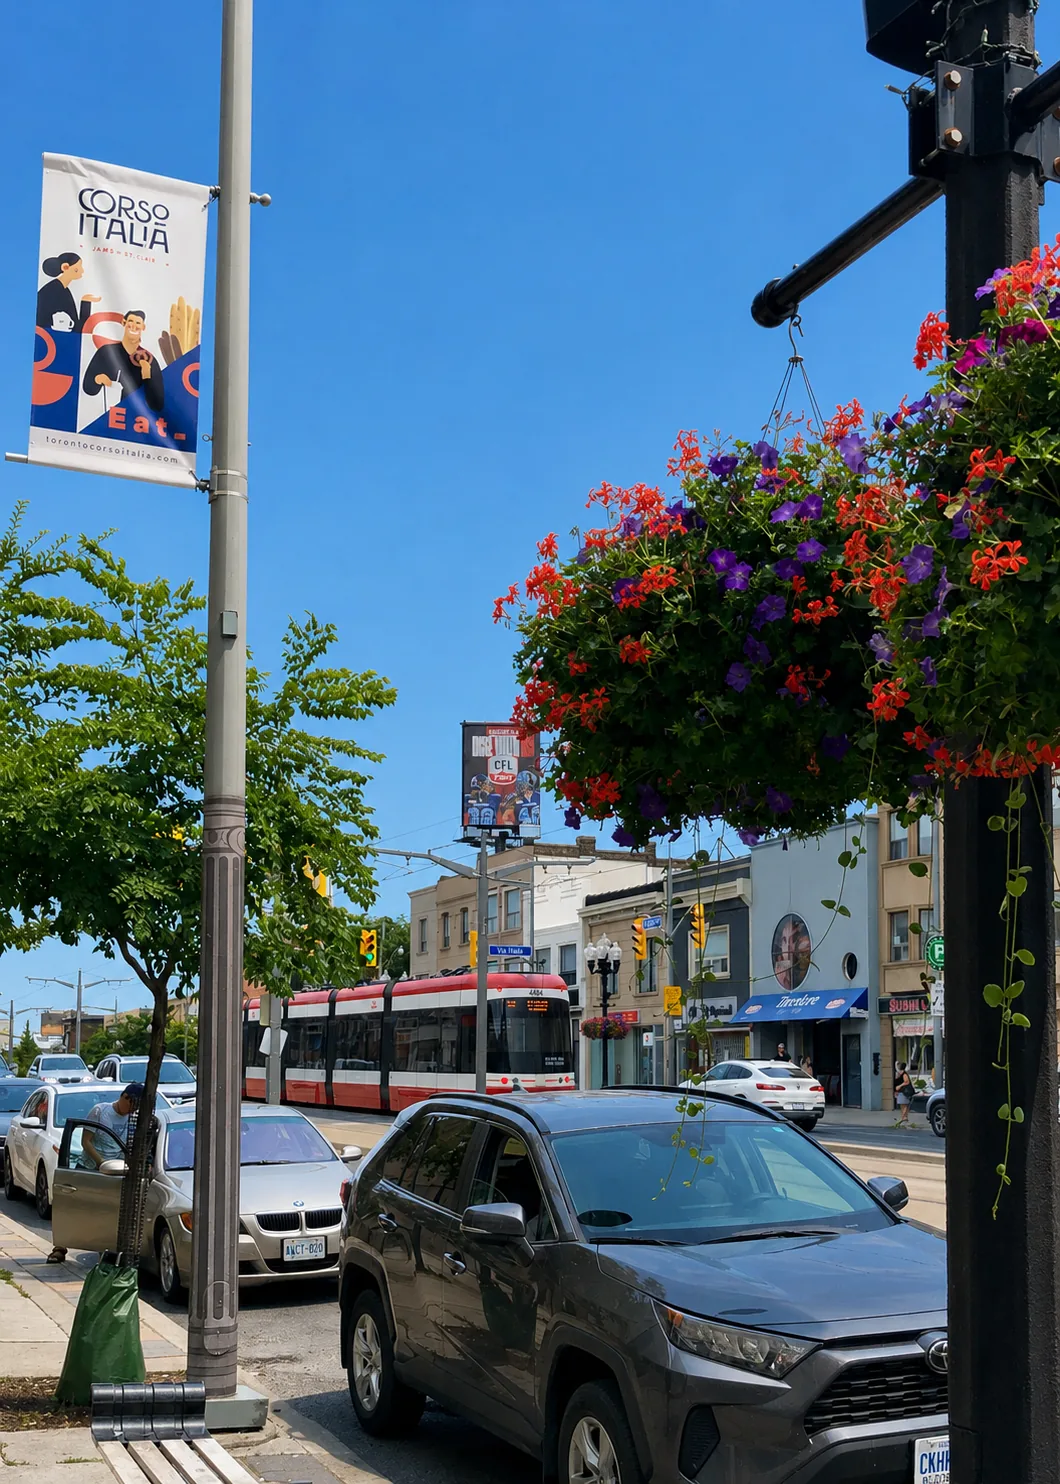
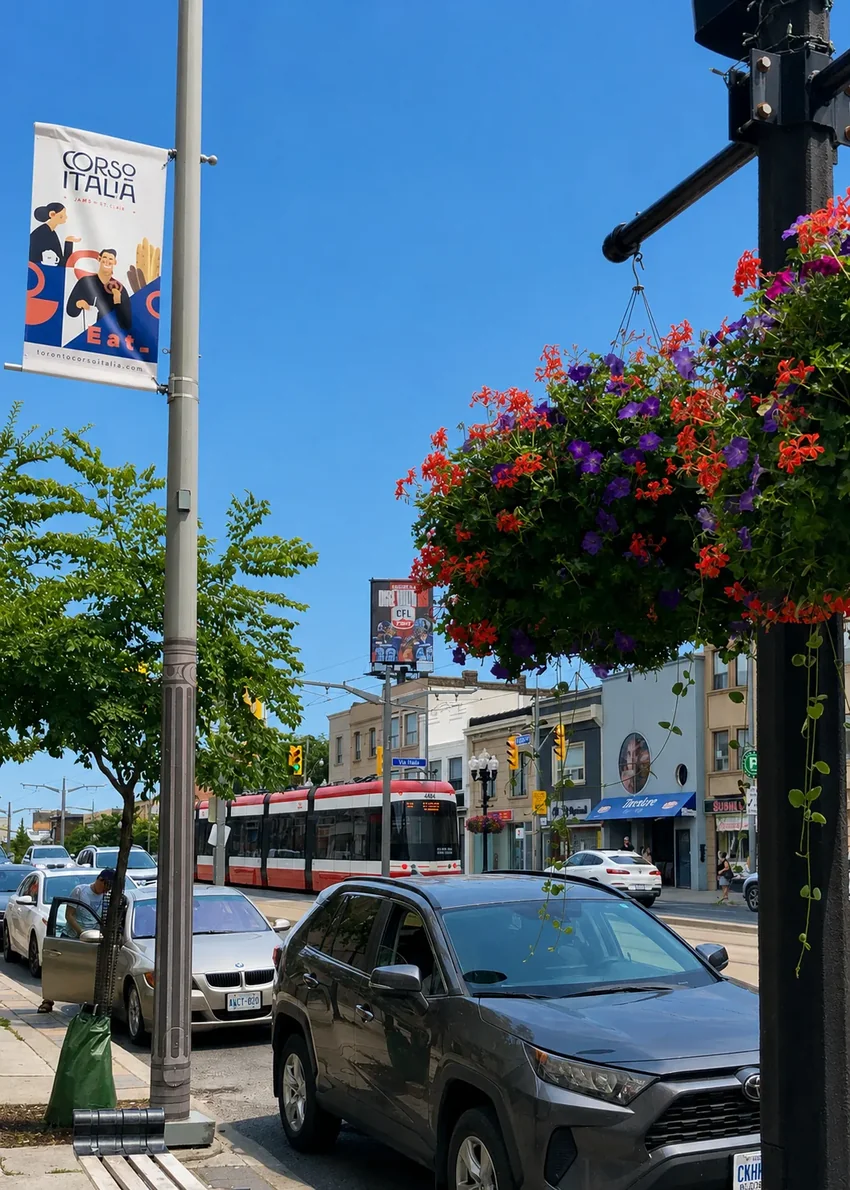
Compress gallery photos and cloud graphic to WebP
Convert the 6 storefront/interior gallery images and the decorative
cloud2 asset to appropriately-sized, high-quality WebP versions
(resized to actual display size with retina headroom) to cut page
weight without visible quality loss. Updates all references across
index.html and braces-supports.html, including meta/JSON-LD image tags.

Changed region(s): [[0.3365, 0.6218, 0.3671, 0.6529]]

diff --git a/index.html b/index.html
@@ -27,7 +27,7 @@
   <meta property="og:url"         content="https://www.stclairdrugmart.ca/" />
   <meta property="og:title"       content="St. Clair Drug Mart | Top-Rated Pharmacy in Toronto, Ontario" />
   <meta property="og:description" content="4.9-star rated neighbourhood pharmacy on St. Clair West, Toronto, Ontario — walk-ins welcome, online appointments, vaccines, free Rx delivery & pharmacist care for 28 common conditions." />
-  <meta property="og:image"       content="https://www.stclairdrugmart.ca/storefront_studio.jpeg" />
+  <meta property="og:image"       content="https://www.stclairdrugmart.ca/storefront_studio.webp" />
   <meta property="og:image:alt"   content="St. Clair Drug Mart Pharmacy storefront at 1203 St. Clair Ave W, Toronto" />
   <meta property="business:contact_data:street_address" content="1203 St. Clair Avenue West" />
   <meta property="business:contact_data:locality" content="Toronto" />
@@ -39,7 +39,7 @@
   <meta name="twitter:site"        content="@stclairdrugmart" />
   <meta name="twitter:title"       content="St. Clair Drug Mart | Top-Rated Pharmacy in Toronto, Ontario" />
   <meta name="twitter:description" content="4.9-star rated neighbourhood pharmacy on St. Clair West, Toronto, Ontario — walk-ins welcome, online appointments, vaccines, free Rx delivery & pharmacist care for 28 common conditions." />
-  <meta name="twitter:image"       content="https://www.stclairdrugmart.ca/storefront_studio.jpeg" />
+  <meta name="twitter:image"       content="https://www.stclairdrugmart.ca/storefront_studio.webp" />
   <script type="application/ld+json">
   {
     "@context": "https://schema.org",
@@ -50,7 +50,7 @@
     "slogan": "Your neighbourhood pharmacy on St. Clair West.",
     "url": "https://www.stclairdrugmart.ca/",
     "logo": "https://www.stclairdrugmart.ca/logo.png",
-    "image": "https://www.stclairdrugmart.ca/storefront_studio.jpeg",
+    "image": "https://www.stclairdrugmart.ca/storefront_studio.webp",
     "description": "Clinical pharmacy and walk-in pharmacy at 1203 St. Clair Avenue West, Toronto, ON — frequently searched as the best pharmacy in Toronto, Ontario by patients in the area. Walk-ins welcome — no appointment needed. Prescriptions, free delivery, vaccines, blister packs, medication reviews, pharmacist prescribing for 28 minor ailments, and free naloxone kits through the Ontario Naloxone Program.",
     "telephone": "[phone redacted]",
     "email": "[email redacted]",
@@ -2328,13 +2328,13 @@
 </head>
 <body>
 <div class="sky-bg" aria-hidden="true">
-  <img src="cloud2.png" class="sky-bg-cloud" data-dur="132" data-delay="-25" style="transform:translateX(-25.9vw)" alt="">
+  <img src="cloud2.webp" class="sky-bg-cloud" data-dur="132" data-delay="-25" style="transform:translateX(-25.9vw)" alt="">
   <img src="cloud.png"  class="sky-bg-cloud sky-bg-cloud--flip" data-dur="102" data-delay="-60" style="transform:translateX(45.9vw) scaleX(-1)" alt="">
-  <img src="cloud2.png" class="sky-bg-cloud sky-bg-cloud--flip" data-dur="122" data-delay="-85" style="transform:translateX(65.4vw) scaleX(-1)" alt="">
+  <img src="cloud2.webp" class="sky-bg-cloud sky-bg-cloud--flip" data-dur="122" data-delay="-85" style="transform:translateX(65.4vw) scaleX(-1)" alt="">
   <img src="cloud.png"  class="sky-bg-cloud" data-dur="96" data-delay="-12" style="transform:translateX(-37.5vw)" alt="">
-  <img src="cloud2.png" class="sky-bg-cloud sky-bg-cloud--flip" data-dur="116" data-delay="-40" style="transform:translateX(2.1vw) scaleX(-1)" alt="">
+  <img src="cloud2.webp" class="sky-bg-cloud sky-bg-cloud--flip" data-dur="116" data-delay="-40" style="transform:translateX(2.1vw) scaleX(-1)" alt="">
   <img src="cloud.png"  class="sky-bg-cloud" data-dur="128" data-delay="-18" style="transform:translateX(-34.7vw)" alt="">
-  <img src="cloud2.png" class="sky-bg-cloud" data-dur="110" data-delay="-72" style="transform:translateX(57.8vw)" alt="">
+  <img src="cloud2.webp" class="sky-bg-cloud" data-dur="110" data-delay="-72" style="transform:translateX(57.8vw)" alt="">
   <img src="cloud.png"  class="sky-bg-cloud sky-bg-cloud--flip" data-dur="94" data-delay="-95" style="transform:translateX(-58.1vw) scaleX(-1)" alt="">
 </div>
 
@@ -2343,12 +2343,12 @@
 <!-- ── Nav ──────────────────────────────────────────────── -->
 <nav class="nav" id="nav">
   <div class="nav__clouds" aria-hidden="true">
-    <img src="cloud2.png" class="nav__cloud" data-dur="175" data-delay="-29" style="transform:translateX(-30.6vw)" alt="">
+    <img src="cloud2.webp" class="nav__cloud" data-dur="175" data-delay="-29" style="transform:translateX(-30.6vw)" alt="">
     <img src="cloud.png"  class="nav__cloud nav__cloud--flip" data-dur="140" data-delay="-81" style="transform:translateX(44.7vw) scaleX(-1)" alt="">
-    <img src="cloud2.png" class="nav__cloud nav__cloud--flip" data-dur="165" data-delay="-126" style="transform:translateX(77.6vw) scaleX(-1)" alt="">
+    <img src="cloud2.webp" class="nav__cloud nav__cloud--flip" data-dur="165" data-delay="-126" style="transform:translateX(77.6vw) scaleX(-1)" alt="">
     <img src="cloud.png"  class="nav__cloud" data-dur="125" data-delay="-51" style="transform:translateX(13.8vw)" alt="">
     <img src="cloud.png"  class="nav__cloud nav__cloud--flip" data-dur="150" data-delay="-102" style="transform:translateX(-8vw) scaleX(-1)" alt="">
-    <img src="cloud2.png" class="nav__cloud" data-dur="130" data-delay="0" style="transform:translateX(-60vw)" alt="">
+    <img src="cloud2.webp" class="nav__cloud" data-dur="130" data-delay="0" style="transform:translateX(-60vw)" alt="">
   </div>
   <div class="nav__inner">
     <a href="#home" class="nav__brand">
@@ -2416,17 +2416,17 @@
 <!-- ── Hero ─────────────────────────────────────────────── -->
 <header class="hero" id="home">
   <div class="hero__clouds" aria-hidden="true">
-    <img src="cloud2.png" class="hero__cloud" data-dur="116" data-delay="-20" style="transform:translateX(-29vw)" alt="">
+    <img src="cloud2.webp" class="hero__cloud" data-dur="116" data-delay="-20" style="transform:translateX(-29vw)" alt="">
     <img src="cloud.png"  class="hero__cloud hero__cloud--flip" data-dur="85" data-delay="-55" style="transform:translateX(56.5vw) scaleX(-1)" alt="">
-    <img src="cloud2.png" class="hero__cloud hero__cloud--flip" data-dur="110" data-delay="-80" style="transform:translateX(70.9vw) scaleX(-1)" alt="">
+    <img src="cloud2.webp" class="hero__cloud hero__cloud--flip" data-dur="110" data-delay="-80" style="transform:translateX(70.9vw) scaleX(-1)" alt="">
     <img src="cloud.png"  class="hero__cloud" data-dur="77" data-delay="-35" style="transform:translateX(21.8vw)" alt="">
-    <img src="cloud2.png" class="hero__cloud" data-dur="132" data-delay="-110" style="transform:translateX(90vw)" alt="">
+    <img src="cloud2.webp" class="hero__cloud" data-dur="132" data-delay="-110" style="transform:translateX(90vw)" alt="">
     <img src="cloud.png"  class="hero__cloud hero__cloud--flip" data-dur="89" data-delay="-12" style="transform:translateX(-35.7vw) scaleX(-1)" alt="">
-    <img src="cloud2.png" class="hero__cloud hero__cloud--flip" data-dur="113" data-delay="-65" style="transform:translateX(43.5vw) scaleX(-1)" alt="">
+    <img src="cloud2.webp" class="hero__cloud hero__cloud--flip" data-dur="113" data-delay="-65" style="transform:translateX(43.5vw) scaleX(-1)" alt="">
     <img src="cloud.png"  class="hero__cloud" data-dur="81" data-delay="-48" style="transform:translateX(46.7vw)" alt="">
-    <img src="cloud2.png" class="hero__cloud" data-dur="122" data-delay="-120" style="transform:translateX(117.1vw)" alt="">
+    <img src="cloud2.webp" class="hero__cloud" data-dur="122" data-delay="-120" style="transform:translateX(117.1vw)" alt="">
     <img src="cloud.png"  class="hero__cloud hero__cloud--flip" data-dur="86" data-delay="-28" style="transform:translateX(-1.4vw) scaleX(-1)" alt="">
-    <img src="cloud2.png" class="hero__cloud hero__cloud--flip" data-dur="102" data-delay="-90" style="transform:translateX(98.8vw) scaleX(-1)" alt="">
+    <img src="cloud2.webp" class="hero__cloud hero__cloud--flip" data-dur="102" data-delay="-90" style="transform:translateX(98.8vw) scaleX(-1)" alt="">
     <img src="cloud.png"  class="hero__cloud" data-dur="79" data-delay="-70" style="transform:translateX(99.5vw)" alt="">
   </div>
   <img src="logo.png" alt="St. Clair Drug Mart Pharmacy logo" class="hero__logo" width="940" height="922" fetchpriority="high" />
@@ -2667,7 +2667,7 @@
 <section id="booking">
   <div class="section__inner">
     <img src="cloud.png" alt="" aria-hidden="true" class="booking__logo-cloud" loading="lazy" decoding="async" />
-    <img src="cloud2.png" alt="" aria-hidden="true" class="booking__logo-cloud--2" loading="lazy" decoding="async" />
+    <img src="cloud2.webp" alt="" aria-hidden="true" class="booking__logo-cloud--2" loading="lazy" decoding="async" />
     <img src="cloud.png" alt="" aria-hidden="true" class="booking__logo-cloud--3" loading="lazy" decoding="async" />
     <img src="logo.png" alt="St. Clair Drug Mart Pharmacy" class="booking__logo" loading="lazy" decoding="async" />
     <h2 class="section__title">Patient Portal</h2>
@@ -3866,24 +3866,24 @@
     <div class="gallery">
       <div class="gallery__row gallery__row--top">
         <div class="gallery__item">
-          <img src="storefront_studio.jpeg" alt="St. Clair Drug Mart Pharmacy exterior — 1203 St. Clair Ave W, Toronto" loading="eager" fetchpriority="low" decoding="async" />
+          <img src="storefront_studio.webp" alt="St. Clair Drug Mart Pharmacy exterior — 1203 St. Clair Ave W, Toronto" loading="eager" fetchpriority="low" decoding="async" />
         </div>
         <div class="gallery__item">
           <img src="neighbourhood.webp" alt="Corso Italia street on St. Clair Ave W with TTC streetcar and flower baskets" loading="eager" fetchpriority="low" decoding="async" />
         </div>
         <div class="gallery__item">
-          <img src="storefront_angle.jpeg" alt="St. Clair Drug Mart Pharmacy storefront on St. Clair Ave W, Toronto" loading="eager" fetchpriority="low" decoding="async" />
+          <img src="storefront_angle.webp" alt="St. Clair Drug Mart Pharmacy storefront on St. Clair Ave W, Toronto" loading="eager" fetchpriority="low" decoding="async" />
         </div>
       </div>
       <div class="gallery__row gallery__row--bottom">
         <div class="gallery__item">
-          <img src="interior_wide.jpg" alt="Inside St. Clair Drug Mart Pharmacy — pharmacy counter and full store" loading="eager" fetchpriority="low" decoding="async" />
+          <img src="interior_wide.webp" alt="Inside St. Clair Drug Mart Pharmacy — pharmacy counter and full store" loading="eager" fetchpriority="low" decoding="async" />
         </div>
         <div class="gallery__item">
           <img src="interior_shelves.webp" alt="Over-the-counter and health product shelves at St. Clair Drug Mart Pharmacy" loading="eager" fetchpriority="low" decoding="async" />
         </div>
         <div class="gallery__item">
-          <img src="interior_aisle.jpg" alt="Product aisle and counseling room inside St. Clair Drug Mart Pharmacy" loading="eager" fetchpriority="low" decoding="async" />
+          <img src="interior_aisle.webp" alt="Product aisle and counseling room inside St. Clair Drug Mart Pharmacy" loading="eager" fetchpriority="low" decoding="async" />
         </div>
       </div>
     </div>

diff --git a/braces-supports.html b/braces-supports.html
@@ -17,11 +17,11 @@
   <meta property="og:title" content="Braces, Supports & Compression — St. Clair Drug Mart Pharmacy" />
   <meta property="og:description" content="Back, knee, wrist, ankle supports, abdominal binders & medical compression stockings — in stock at our Toronto pharmacy." />
   <meta property="og:url" content="https://www.stclairdrugmart.ca/braces-supports.html" />
-  <meta property="og:image" content="https://www.stclairdrugmart.ca/storefront_studio.jpeg" />
+  <meta property="og:image" content="https://www.stclairdrugmart.ca/storefront_studio.webp" />
   <meta name="twitter:card" content="summary_large_image" />
   <meta name="twitter:title" content="Braces, Supports & Compression — St. Clair Drug Mart Pharmacy" />
   <meta name="twitter:description" content="Back, knee, wrist, ankle supports, abdominal binders & medical compression stockings — in stock at our Toronto pharmacy." />
-  <meta name="twitter:image" content="https://www.stclairdrugmart.ca/storefront_studio.jpeg" />
+  <meta name="twitter:image" content="https://www.stclairdrugmart.ca/storefront_studio.webp" />
   <script type="application/ld+json">
   {
     "@context": "https://schema.org",
@@ -353,25 +353,25 @@
 <body>
 
 <div class="sky-bg" aria-hidden="true">
-  <img src="cloud2.png" class="sky-bg-cloud" data-dur="132" data-delay="-25" style="transform:translateX(-25.9vw)" alt="">
+  <img src="cloud2.webp" class="sky-bg-cloud" data-dur="132" data-delay="-25" style="transform:translateX(-25.9vw)" alt="">
   <img src="cloud.png"  class="sky-bg-cloud sky-bg-cloud--flip" data-dur="102" data-delay="-60" style="transform:translateX(45.9vw) scaleX(-1)" alt="">
-  <img src="cloud2.png" class="sky-bg-cloud sky-bg-cloud--flip" data-dur="122" data-delay="-85" style="transform:translateX(65.4vw) scaleX(-1)" alt="">
+  <img src="cloud2.webp" class="sky-bg-cloud sky-bg-cloud--flip" data-dur="122" data-delay="-85" style="transform:translateX(65.4vw) scaleX(-1)" alt="">
   <img src="cloud.png"  class="sky-bg-cloud" data-dur="96" data-delay="-12" style="transform:translateX(-37.5vw)" alt="">
-  <img src="cloud2.png" class="sky-bg-cloud sky-bg-cloud--flip" data-dur="116" data-delay="-40" style="transform:translateX(2.1vw) scaleX(-1)" alt="">
+  <img src="cloud2.webp" class="sky-bg-cloud sky-bg-cloud--flip" data-dur="116" data-delay="-40" style="transform:translateX(2.1vw) scaleX(-1)" alt="">
   <img src="cloud.png"  class="sky-bg-cloud" data-dur="128" data-delay="-18" style="transform:translateX(-34.7vw)" alt="">
-  <img src="cloud2.png" class="sky-bg-cloud" data-dur="110" data-delay="-72" style="transform:translateX(57.8vw)" alt="">
+  <img src="cloud2.webp" class="sky-bg-cloud" data-dur="110" data-delay="-72" style="transform:translateX(57.8vw)" alt="">
   <img src="cloud.png"  class="sky-bg-cloud sky-bg-cloud--flip" data-dur="94" data-delay="-95" style="transform:translateX(-58.1vw) scaleX(-1)" alt="">
 </div>
 
 <!-- ── Nav ──────────────────────────────────────────────── -->
 <nav class="nav" id="nav">
   <div class="nav__clouds" aria-hidden="true">
-    <img src="cloud2.png" class="nav__cloud" data-dur="175" data-delay="-29" style="transform:translateX(-30.6vw)" alt="">
+    <img src="cloud2.webp" class="nav__cloud" data-dur="175" data-delay="-29" style="transform:translateX(-30.6vw)" alt="">
     <img src="cloud.png"  class="nav__cloud nav__cloud--flip" data-dur="140" data-delay="-81" style="transform:translateX(44.7vw) scaleX(-1)" alt="">
-    <img src="cloud2.png" class="nav__cloud nav__cloud--flip" data-dur="165" data-delay="-126" style="transform:translateX(77.6vw) scaleX(-1)" alt="">
+    <img src="cloud2.webp" class="nav__cloud nav__cloud--flip" data-dur="165" data-delay="-126" style="transform:translateX(77.6vw) scaleX(-1)" alt="">
     <img src="cloud.png"  class="nav__cloud" data-dur="125" data-delay="-51" style="transform:translateX(13.8vw)" alt="">
     <img src="cloud.png"  class="nav__cloud nav__cloud--flip" data-dur="150" data-delay="-102" style="transform:translateX(-8vw) scaleX(-1)" alt="">
-    <img src="cloud2.png" class="nav__cloud" data-dur="130" data-delay="0" style="transform:translateX(-60vw)" alt="">
+    <img src="cloud2.webp" class="nav__cloud" data-dur="130" data-delay="0" style="transform:translateX(-60vw)" alt="">
   </div>
   <div class="nav__inner">
     <a href="index.html#welcome" class="nav__brand">